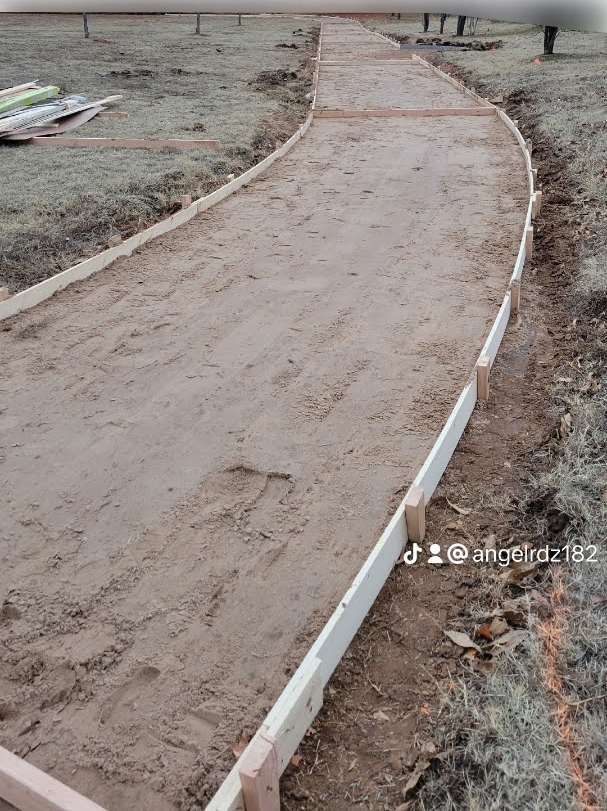
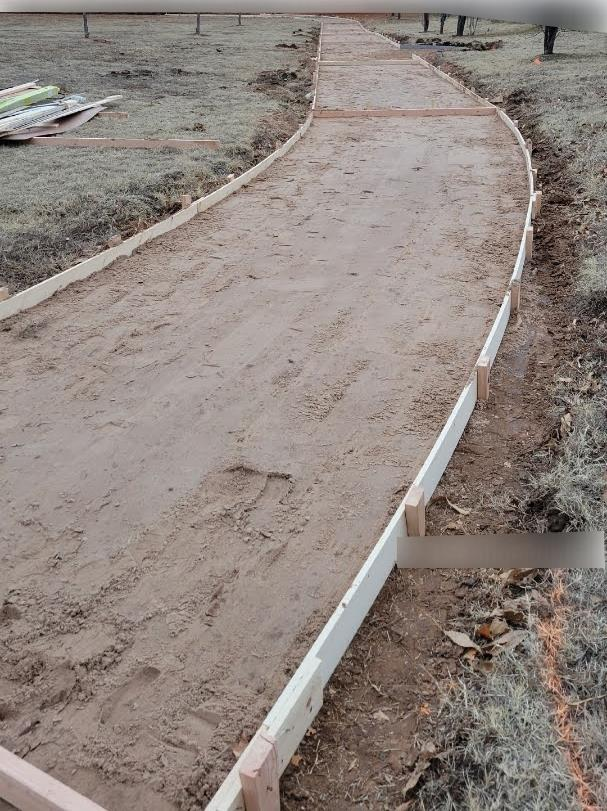
small changes-  about,services
- mainly blurredout any potential stuff
- moved some images around in repair

Changed region(s): [[0.6524, 0.6473, 1.0, 0.709]]

diff --git a/services.html b/services.html
@@ -149,11 +149,10 @@
 			<img  class = "mobile_image" src="images\services\wall\mobile_walls_4.jpg" alt = "">
 		</div>
 		<div id = "mobile_button_six_images_container" class = "each_button_images_container">
-			
+			<img  class = "mobile_image" src="images\services\repairs\mobile_repairs_1.jpg" alt = "">
 			<img  class = "mobile_image" src="images\services\repairs\mobile_repairs_3.jpg" alt = "">
 			<img  class = "mobile_image" src="images\services\repairs\mobile_repairs_4.jpg" alt = "">
 			<img  class = "mobile_image" src="images\services\repairs\mobile_repairs_5.jpg" alt = "">
-			<img  class = "mobile_image" src="images\services\repairs\mobile_repairs_1.jpg" alt = "">
 			<img  class = "mobile_image" src="images\services\repairs\mobile_repairs_2.jpeg" alt = "">
 			
 		</div>

diff --git a/CSS-Style/servicesStyle.css b/CSS-Style/servicesStyle.css
@@ -409,7 +409,7 @@ header
         position: relative;
         margin-left: auto;
         margin-right: auto;
-        border-radius: 15px;
+        border-radius: 0px;
         margin-bottom: 55px;
 }
 #mobile_all_images_container
